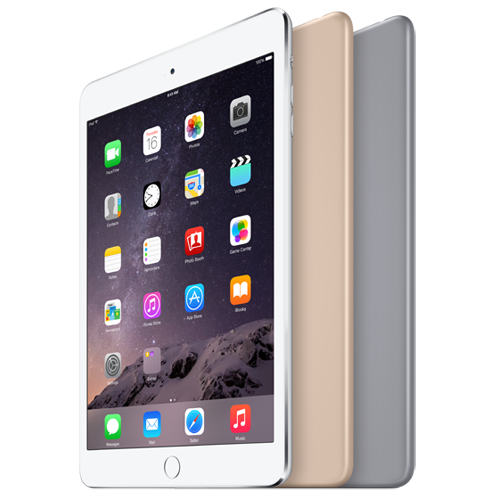
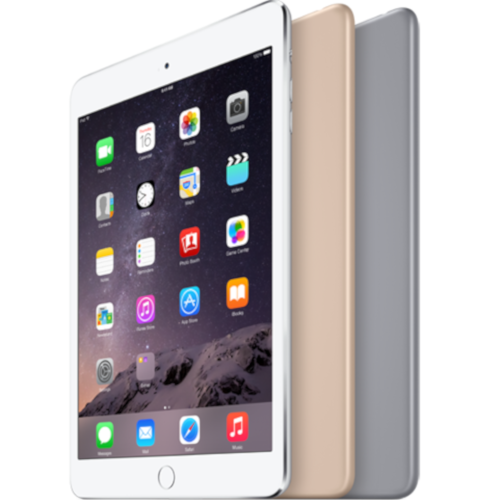
- aggiunto cuoricino per funzione preferiti - cambiate immagini

diff --git a/index.html b/index.html
@@ -20,7 +20,9 @@
             -30%
           </div>
           <img src="img/ipad.png" alt="img-ipad">
-
+          <div class="preferiti">
+            &hearts;
+          </div>
         </div>
 
         <div class="prodotto">
@@ -29,7 +31,9 @@
             -5%
           </div>
           <img src="img/iphone.png" alt="img-ipad">
-
+          <div class="preferiti">
+            &hearts;
+          </div>
         </div>
 
         <div class="prodotto">
@@ -38,7 +42,9 @@
             -30%
           </div>
           <img src="img/beats.png" alt="img-ipad">
-
+          <div class="preferiti">
+            &hearts;
+          </div>
         </div>
 
       </div>
@@ -53,7 +59,9 @@
             -30%
           </div>
           <img src="img/ipad.png" alt="img-ipad">
-
+          <div class="preferiti">
+            &hearts;
+          </div>
         </div>
 
         <div class="prodotto">
@@ -62,7 +70,9 @@
             -5%
           </div>
           <img src="img/iphone.png" alt="img-ipad">
-
+          <div class="preferiti">
+            &hearts;
+          </div>
         </div>
 
         <div class="prodotto">
@@ -71,7 +81,9 @@
             -30%
           </div>
           <img src="img/beats.png" alt="img-ipad">
-
+          <div class="preferiti">
+            &hearts;
+          </div>
         </div>
 
       </div>

diff --git a/style.css b/style.css
@@ -6,12 +6,17 @@
   margin-bottom: 20px;
 }
 
+img {
+  padding: 60px;
+}
+
 .sconto {
   width: 40px;
   height: 20px;
   position: absolute;
   top: 0;
   right: 0;
+  text-align: center;
 }
 
 .vecchio {
@@ -20,4 +25,13 @@
 
 .nuovo {
   background-color: red;
+}
+
+.preferiti {
+  position: absolute;
+  bottom: 0;
+  left: 50%;
+  transform: translate(-50%);
+  color: red;
+  font-size: 40px;
 }
